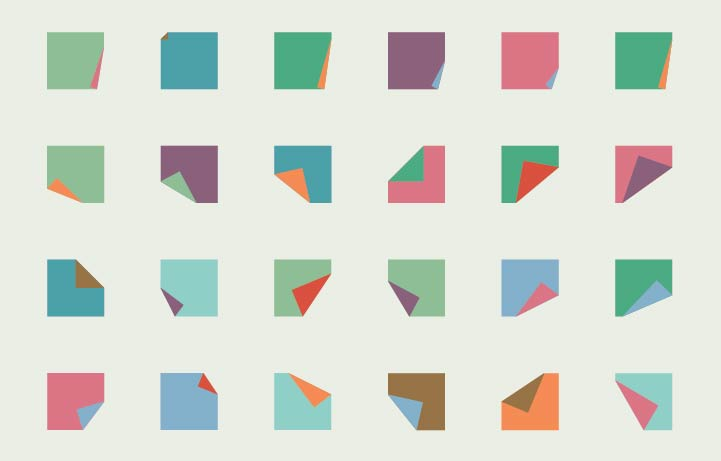
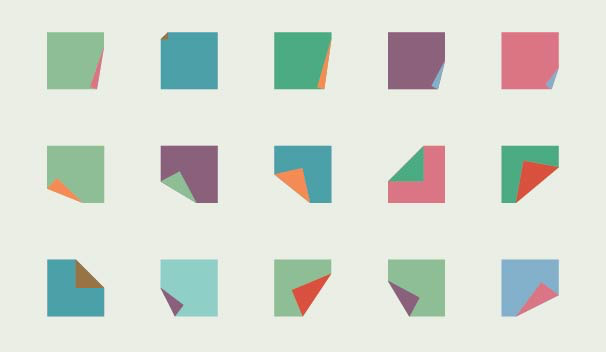
add labor grouping/removing some projects

diff --git a/_pages/labor.md b/_pages/labor.md
@@ -1,0 +1,54 @@
+---
+layout: page_full
+title:  "labor"
+categories:
+  - item: produto
+permalink: labor
+
+weight: 4
+priority: 70
+color: '#e46868'
+---
+
+Labor é um projeto de mesa de trabalho com notebook para uso doméstico, adaptável às necessidades e perfis do usuário. E foi desenvolvido para fabricação em pequena escala, possível de ser contruído com os conceitos do "faça você mesmo", do inglês "do it yourself (DIY)".
+
+### contexto
+
+Atualmente, ao procurar por mesas de trabalho, encontra-se diversos móveis próprios para o uso, tais como o trabalho com desktop, notebook, ou com tablets e mesas digitais, acompanhado por impressoras e multifuncionais, apropriado para anotações em papéis e gerenciamento de atividades, que estejam aptos a receberem periféricos e conexões múltiplas. Porém, os produtos encontrados são geralmente muito genéricos a fim de atender apenas como superfície de apoio.
+
+{: .img_small }
+<figure><img src="{{ site.baseurl }}/assets/labor/contexto1.jpg"/></figure>
+
+Algumas mesas são bem simples e refinadas, mas que ao serem apresentadas não demonstram o uso dos diversos objetos periféricos utilizados juntamente ao uso do computador. E não é difícil que o uso cotidiano desses objetos acabe por orquestrar uma desorganização em cima de uma simples superfície.
+
+{: .img_small }
+<figure><img src="{{ site.baseurl }}/assets/labor/ex_desorganizado.jpg"/></figure>
+
+### pesquisa
+
+A pesquisa se baseou em analisar diversos projetos do mesmo âmbito mobiliário e de usos análogos, a fim de encontrar detalhes para serem incorporados que fizessem a diferença e contribuíssem para a inovação. Assim como projetos que facilitassem a montagem de forma não industrial. Fora isso, diversos usos já estavam na lista de requisitos como, por exemplo, a organização da parte elétrica, armazenamento de material de escritório e otimização da ergonomia da mesa.
+
+{: .left }
+<figure><img src="{{ site.baseurl }}/assets/labor/ref0.jpg"/></figure>
+
+
+A entrevista com potenciais usuários relatou alguns pontos previstos, ajudando a consolidar os pensamentos e a validar o material que foi reunido. Foi constatado que é comum em suas casas o uso de mesas de uso genérico ou mesas de jantar para o uso do notebook. A pessoa pode acostumar e não sentir incômodo muito grande de imediato, e não saber o quanto essas posturas inadequadas vão prejudicar a longo prazo.
+
+{: .left }
+<figure><img src="{{ site.baseurl }}/assets/labor/pesquisa1.jpg"/></figure>
+
+A inclinação do teclado ao facilitar a visão do mesmo pode influenciar em uma vantagem maior que é a de manter o pulso melhor posicionado sem desvio, isso só se dá quando não há obstáculos para que o antebraço possa ficar alinhado.
+
+{: .img_small }
+<figure><img src="{{ site.baseurl }}/assets/labor/inclinacao.jpg"/></figure>
+
+WIP
+
+{: .img_small }
+<figure><img src="{{ site.baseurl }}/assets/labor/usos.jpg"/></figure>
+
+{: .img_small }
+<figure><img src="{{ site.baseurl }}/assets/labor/desenho1.jpg"/></figure>
+
+{: .img_small }
+<figure><img src="{{ site.baseurl }}/assets/labor/capturar.png"/></figure>

diff --git a/_pages/rede.md b/_pages/rede.md
@@ -12,8 +12,25 @@ priority: 48
 color: '#F47827'
 ---
 
-Projeto em progresso!
-
 O processo na Rede compreende realizar melhorias na experiência de fluxos antigos, desenvolver novos fluxos de funcionalidades novas e desenhar soluções de interface durante a transição de redesign da Rede.
 
-Trabalho sendo realizado em conjunto com estrutura do Itaú e guias de elementos e comportamentos compartilhados. Desenvolvimento de elementos próprios para a área de Atendimento Digital.
+Trabalho realizado em conjunto com estrutura do Itaú e guias de elementos e comportamentos compartilhados. Desenvolvimento de elementos próprios para a área de Atendimento Digital.
+
+### não logado
+
+A seção de ajuda da área não logada, botão localizado na tela de login, foi atualizada para possuir atalhos das principais dúvidas do cliente, direcionando para a possível solução.
+
+Entendendo que nessa etapa o cliente já possui alguma dificuldade, o diálogo é essencial ocorrendo de forma mais simples buscando o conforto. Anteriormente essa tela possuia apenas Perguntas frequentes (FAQs) e as métricas de acesso para as mesmas foram analisadas a fim de priorizar e atender de forma mais efetiva quais dores eram mais recorrentes.
+
+O campo de busca foi colocado em destaque com chamada mais eficiente que mantém um diálogo com o cliente, buscando saber mais pontualmente qual a dúvida.
+
+Os atalhos para a seção de fale conosco e para a lista de telefones para contato foram redesenhados para ficarem mais claros e amigáveis.
+
+O módulo de avaliação foi adicionado à página, houve um trabalho para concluir a experiência do fluxo e também para adaptar às limitações técnicas do sistema atual sem comprometer o objetivo de ser fácil de responder e colocar o cliente como parte do processo de evolução do produto.
+
+Outros atalhos foram apenas alinhados com o resto da interface e a tela na qual o cliente era direcionado foi mantido.
+
+### fluxos não implementados
+
+Os fluxos de solicitação de bobina para a maquininha, suporte à maquininha e workflow para automatização
+de solicitações foram aprimorados em questões de experiência e de interface, mas não foram implementados.

diff --git a/_pages/embalagem_standard.md b/_pages/embalagem_standard.md
@@ -7,7 +7,7 @@ permalink: embalagem_standard
 
 ano: 2012
 weight: 2
-priority: 1
+priority: 2
 color: '#e9a17c'
 
 details:
@@ -26,13 +26,6 @@ details:
 <figure><img src="{{ site.baseurl }}/assets/emb/imagem4.jpg"/></figure>
 
 Projeto de embalagem de vidro standard, pensado para pequenas quantidades de produto. O formato interno permite um bom manuseio do produto contido e se torna um diferencial estético. Partindo do mesmo recipiente, mas acrescentando diferentes acabamentos e utilizando uma tampa não convencional, pode-se obter o destaque desejável. Para exemplificar a abrangência de utilização, três produtos de mercados e caraterísticas bem diferentes foram desenvolvidos:
-
-{: .img_small }
-<figure><img src="{{ site.baseurl }}/assets/emb/esquemat.png"/></figure>
-<figure><img src="{{ site.baseurl }}/assets/emb/imagem1.jpg"/></figure>
-<figure><img src="{{ site.baseurl }}/assets/emb/imagem2.jpg"/></figure>
-<figure><img src="{{ site.baseurl }}/assets/emb/imagem3.jpg"/></figure>
-
 
 <div class="itens">
 	<div class="item">

diff --git a/_pages/levar.md b/_pages/levar.md
@@ -66,20 +66,20 @@ As malas deslizam no descarregamento por conta do baixo atrito. Primeiro deve se
 
 ### benefícios
 
-<figure><img class="img_original" src="{{ site.baseurl }}/assets/levar/" class="trs-bounce"/></figure>
+
 #### Operadores de bagagem
 * ergonomia melhorada
 * menos lesões
 * vida de trabalho menos curta
 * melhor auto-estima
 
-<figure><img class="img_original" src="{{ site.baseurl }}/assets/levar/" class="trs-bounce"/></figure>
+
 #### Passageiros
 * recebimento de bagagem mais rápida
 * pertences protegidos
 * companias percebidas como agentes de mudança
 
-<figure><img class="img_original" src="{{ site.baseurl }}/assets/levar/" class="trs-bounce"/></figure>
+
 #### Companhias aéreas
 * menos gastos com bagagens
 * reconhecimento por cuidar das condições de trabalho

diff --git a/_pages/desenhos1.md b/_pages/desenhos1.md
@@ -13,4 +13,16 @@ color: '#e46868'
 
 <figure><img src="{{ site.baseurl }}/assets/desenhos1/espanqueador.jpg"/></figure>
 
-espanque a dor
+<figure><img src="{{ site.baseurl }}/assets/desenhos1/alma.jpg"/></figure>
+
+<figure><img src="{{ site.baseurl }}/assets/desenhos1/baleia.jpg"/></figure>
+
+<figure><img src="{{ site.baseurl }}/assets/desenhos1/birdos.jpg"/></figure>
+
+<figure><img src="{{ site.baseurl }}/assets/desenhos1/pug.jpg"/></figure>
+
+<figure><img src="{{ site.baseurl }}/assets/desenhos1/birdo_alce.jpg"/></figure>
+
+<figure><img src="{{ site.baseurl }}/assets/desenhos1/bel1.jpg"/></figure>
+
+<figure><img src="{{ site.baseurl }}/assets/desenhos1/rawr.jpg"/></figure>

diff --git a/_pages/xilo1.md b/_pages/xilo1.md
@@ -1,0 +1,15 @@
+---
+layout: page
+title:  "xilo #1"
+categories:
+  - item: ilustração
+permalink: xilo1
+
+weight: 3
+priority: 15
+color: '#e46868'
+---
+
+<figure><img src="{{ site.baseurl }}/assets/xilo1/xilo_elefanto.jpg"/></figure>
+<figure><img src="{{ site.baseurl }}/assets/xilo1/xilo_raposi.jpg"/></figure>
+<figure><img src="{{ site.baseurl }}/assets/xilo1/xilo_copa.jpg"/></figure>

diff --git a/_pages/minhocao.md b/_pages/minhocao.md
@@ -8,7 +8,7 @@ permalink: minhocao
 
 ano: 2013
 weight: 1
-priority: 45
+priority: 34
 color: 'linear-gradient(to right, rgba(239,238,155,1), rgba(239,209,147,1))'
 
 details:

diff --git a/_pages/gama.md b/_pages/gama.md
@@ -8,7 +8,7 @@ permalink: gama
 
 ano: 2016
 weight: 1
-priority: 38
+priority: 41
 color: '#7F78AB'
 
 logo: 'gama_logo.png'

diff --git a/_pages/monomino.md b/_pages/monomino.md
@@ -9,7 +9,7 @@ permalink: monomino
 
 ano: 2010
 weight: 1
-priority: 2
+priority: 51
 color: '#78c6dc'
 
 details:

diff --git a/_pages/lupah.md b/_pages/lupah.md
@@ -8,7 +8,7 @@ categories:
 permalink: lupah
 
 ano: 2013
-weight: 1
+weight: 3
 priority: 80
 color: '#2dccad'
 
